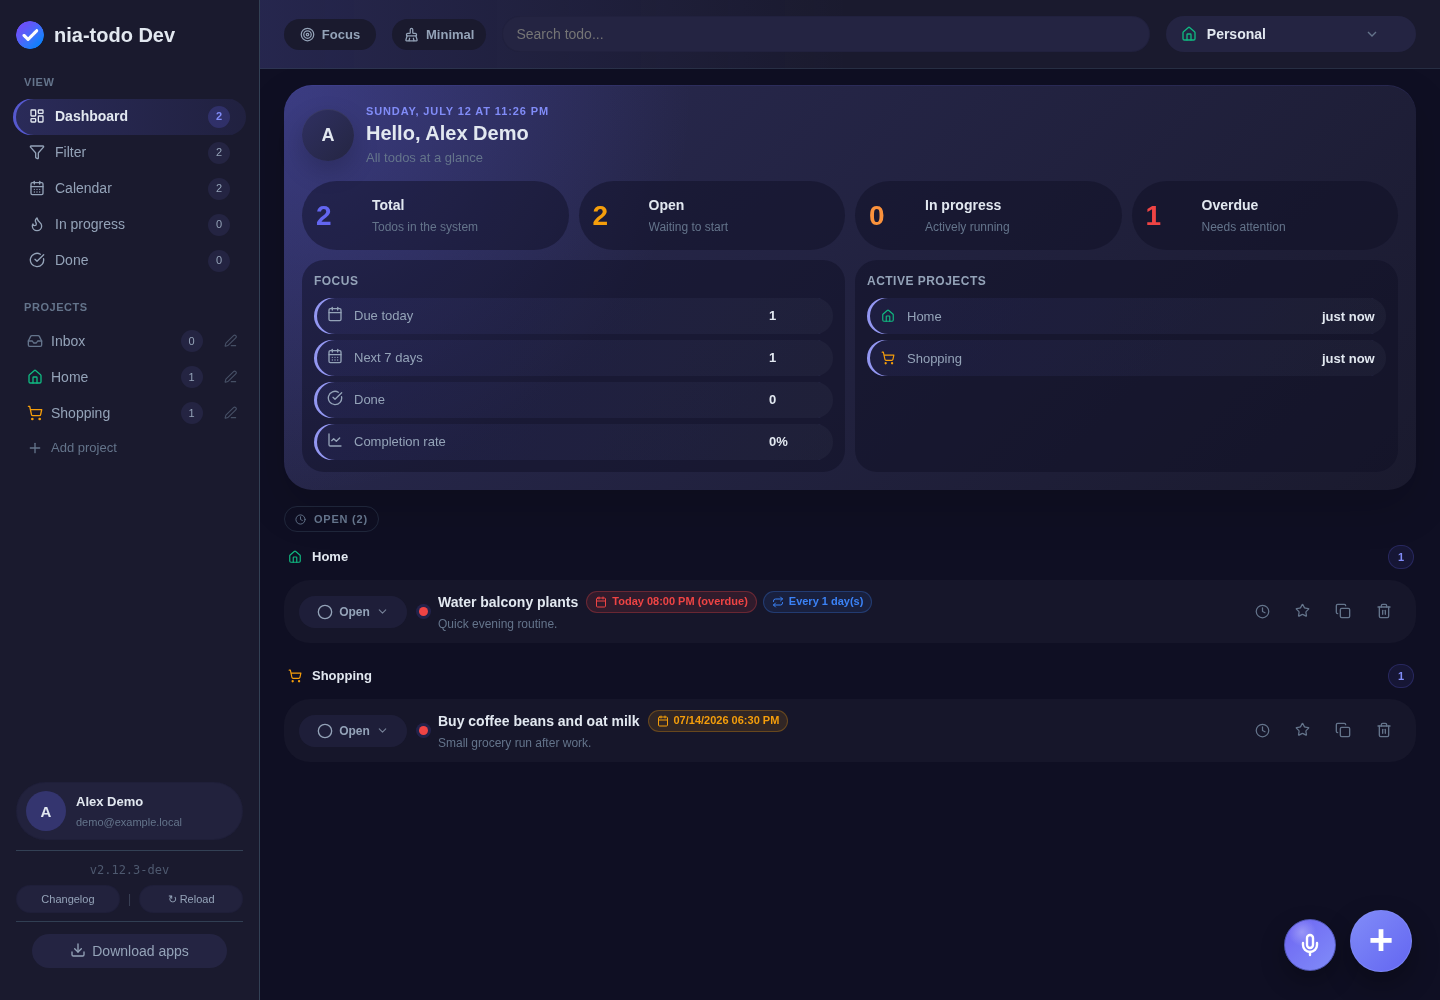
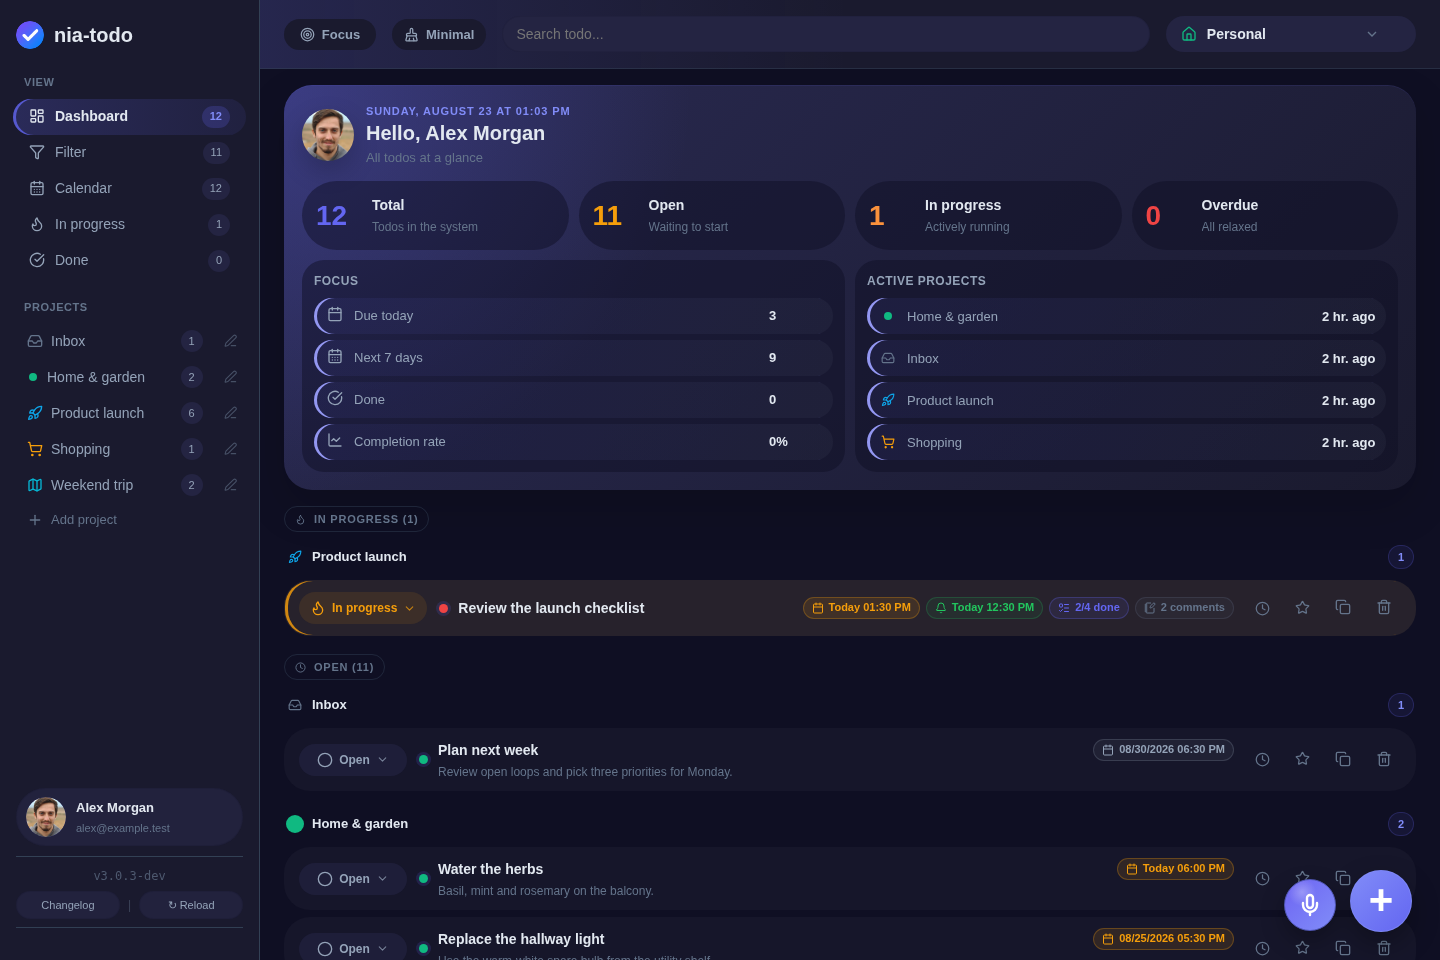
docs: refresh screenshots and trim README to link to website docs
Update the four hero screenshots to the current dashboard layout
(matches the website's overview slide). Replace the duplicated
install/update/docker/backup instructions with links to
nia-todo.homelabdiary.dev/docs, which now owns that content, so the
two copies stop drifting out of sync. Developer docs stay in-repo.

diff --git a/README.md b/README.md
@@ -6,6 +6,8 @@ Self-hosted todo system — SQLite + FastAPI + Web UI + offline PWA + native Win
 
 nia-todo is designed for private self-hosting: install the server, open the web app, then download the bundled native apps directly from your own instance.
 
+🌐 **[nia-todo.homelabdiary.dev](https://nia-todo.homelabdiary.dev)** — website, screenshots, and full documentation.
+
 ## 📸 Screenshots
 
 <p align="center">
@@ -119,185 +121,35 @@ Bundled native client filenames use the shared release version:
 - `nia-todo-vX.Y.Z-android-arm64.apk`
 - `nia-todo-desktop-vX.Y.Z-debian-amd64.deb`
 
-## 🚀 Debian/Ubuntu installation
+## 🚀 Getting started
 
-Download the full server bundle from the release page, then install it:
+Full installation, configuration, and operations instructions live on the website — this keeps one authoritative copy instead of duplicating steps that drift out of sync:
+
+- **[Docker](https://nia-todo.homelabdiary.dev/docs/install/docker)** — recommended for most self-hosters and container platforms
+- **[Debian/Ubuntu package](https://nia-todo.homelabdiary.dev/docs/install/debian)** — systemd service, backup timer, in-app updates
+- **[Get started](https://nia-todo.homelabdiary.dev/docs/get-started)** — compare both options and finish initial setup
+- **[HTTPS / reverse proxy](https://nia-todo.homelabdiary.dev/docs/configure/reverse-proxy)**, **[Administration](https://nia-todo.homelabdiary.dev/docs/configure/administration)**, **[Security, 2FA & OIDC](https://nia-todo.homelabdiary.dev/docs/configure/security)**
+- **[Backup & restore](https://nia-todo.homelabdiary.dev/docs/operations/backups)**, **[Updates](https://nia-todo.homelabdiary.dev/docs/operations/updates)**, **[Troubleshooting](https://nia-todo.homelabdiary.dev/docs/troubleshooting)**
+
+Quick start for the impatient:
 
 ```bash
+# Docker
+docker run -d --name nia-todo --restart unless-stopped \
+  -p 8753:8753 -e NIA_TODO_HOST=auto -e NIA_TODO_PORT=8753 \
+  -v nia-todo-data:/data docker.io/weedpump/nia-todo:latest
+
+# Debian/Ubuntu
 sudo apt install ./nia-todo-server-vX.Y.Z-full.deb
 ```
 
-The package enables and starts the server automatically. Check it with:
-
-```bash
-sudo systemctl status nia-todo
-sudo journalctl -u nia-todo -f
-```
-
-Then open the setup page in your browser and create the initial admin account:
-
-```text
-http://YOUR-SERVER:8753/setup
-```
-
-After setup, open the app at:
-
-```text
-http://YOUR-SERVER:8753/
-```
-
-The admin panel is available at:
-
-```text
-http://YOUR-SERVER:8753/admin
-```
-
-Native app downloads are served by your own instance under:
-
-```text
-http://YOUR-SERVER:8753/downloads/
-```
-
-For production use, put nia-todo behind HTTPS/reverse proxy and set the public base URL in the admin panel. Passkeys and native app integrations rely on the public URL being correct. Native passkeys are supported on Windows and Android; Debian desktop passkey support is intentionally deferred.
-
-## 🔄 Updates
-
-Debian/systemd installations can be updated from the admin panel when a newer GitHub release is available.
-The server downloads the `.deb`, verifies the published SHA256 checksum, creates a pre-upgrade SQLite backup, installs the package through a restricted root helper, and restarts the service.
-
-Manual update still works:
-
-```bash
-sudo apt install ./nia-todo-server-vX.Y.Z-full.deb
-```
-
-The package keeps existing runtime data and creates a pre-upgrade SQLite backup when a database exists.
-It also installs a daily systemd backup timer by default.
-
-Recommended before major upgrades:
-
-```bash
-sudo systemctl stop nia-todo
-sudo cp -a /var/lib/nia-todo /var/lib/nia-todo.backup.$(date +%Y%m%d-%H%M%S)
-sudo apt install ./nia-todo-server-vX.Y.Z-full.deb
-```
-
-## 🐳 Docker
-
-Docker images are published to Docker Hub (`docker.io/weedpump/nia-todo`) and mirrored to GHCR (`ghcr.io/weedpump/nia-todo`). Docker installations are not self-updated from inside the nia-todo container. The admin panel can show that a newer release exists, but you update Docker by pulling the newest image and recreating the container/stack:
-
-```bash
-docker compose pull && docker compose up -d
-```
-
-Run the published image directly:
-
-```bash
-docker run -d \
-  --name nia-todo \
-  --restart unless-stopped \
-  -p 8753:8753 \
-  -e NIA_TODO_HOST=auto \
-  -e NIA_TODO_PORT=8753 \
-  -e NIA_TODO_DATA_DIR=/data \
-  -e NIA_TODO_DB=nia-todo.db \
-  -v nia-todo-data:/data \
-  docker.io/weedpump/nia-todo:latest
-```
-
-Or create a local `compose.yml` without cloning the source repository:
-
-```yaml
-services:
-  nia-todo:
-    image: docker.io/weedpump/nia-todo:latest
-    ports:
-      - "8753:8753"
-    environment:
-      NIA_TODO_HOST: auto
-      NIA_TODO_PORT: 8753
-      NIA_TODO_DATA_DIR: /data
-      NIA_TODO_DB: nia-todo.db
-    volumes:
-      - nia-todo-data:/data
-
-volumes:
-  nia-todo-data:
-```
-
-Then start it:
-
-```bash
-docker compose up -d
-```
-
-GHCR is also available as a mirror if you prefer GitHub Container Registry:
-
-```text
-ghcr.io/weedpump/nia-todo:latest
-```
-
-Default container data volume:
-
-```text
-/data
-```
-
-This volume contains the SQLite database, generated keys, avatars, backups, todo attachments (`/data/attachments`), and local runtime data. Keep it persistent.
-
-## 🧱 Default package layout
-
-- App: `/opt/nia-todo`
-- Data: `/var/lib/nia-todo`
-- Config: `/etc/nia-todo/nia-todo.env`
-- Service: `nia-todo.service`
-
-Useful commands:
-
-```bash
-sudo systemctl status nia-todo
-sudo systemctl status nia-todo-backup.timer
-sudo systemctl start nia-todo-backup.service
-sudo systemctl restart nia-todo
-sudo journalctl -u nia-todo -f
-```
-
-## ⚙ Setup / operations
-
-- Initial setup: `/setup`
-- Admin panel: `/admin`
-- Native app downloads: `/downloads/`
-- Runtime data: `/var/lib/nia-todo`
-- Configuration: `/etc/nia-todo/nia-todo.env`
-
-For production use, configure a correct HTTPS `public_base_url` in the admin panel. Passkeys and native app integrations rely on it. Android passkeys use the bundled app signature through `/.well-known/assetlinks.json`; Debian desktop passkey support is intentionally deferred.
-
-## 🔑 Reset the admin password
-
-If you lose the admin password, reset it directly on the server. The tool reads the configured database location automatically.
-
-Debian/systemd installation:
-
-```bash
-sudo nia-todo-admin-password-reset
-sudo systemctl restart nia-todo
-```
-
-Docker Compose installation:
-
-```bash
-docker compose exec nia-todo nia-todo-admin-password-reset
-```
-
-Plain Docker installation:
-
-```bash
-docker exec -it nia-todo nia-todo-admin-password-reset
-```
-
-The password must follow the normal admin password rules. Existing admin sessions are invalidated after the reset.
+Then open `http://YOUR-SERVER:8753/setup` to create the initial admin account. For production use, put nia-todo behind HTTPS and set the public base URL in the admin panel — passkeys and native app integrations rely on it.
 
 ## 📚 Documentation
+
+**User documentation** (install, configure, operate, native apps) lives on the [website](https://nia-todo.homelabdiary.dev/docs) — see "Getting started" above.
+
+**Developer documentation** stays close to the source:
 
 - [API documentation](docs/api.md)
 - [Architecture](docs/architecture.md)
@@ -309,39 +161,6 @@ The password must follow the normal admin password rules. Existing admin session
 ## 🧪 Development / source builds
 
 For normal self-hosting, use the release package or Docker image above. To build from source or contribute, see [CONTRIBUTING.md](CONTRIBUTING.md).
-
-## 🗄 Backup
-
-The Debian package installs an automatic daily backup timer by default:
-
-```bash
-sudo systemctl status nia-todo-backup.timer
-sudo systemctl start nia-todo-backup.service
-```
-
-Manual backup:
-
-```bash
-sudo nia-todo-backup
-```
-
-Manual restore:
-
-```bash
-sudo systemctl stop nia-todo
-sudo nia-todo-restore /var/lib/nia-todo/backups/nia-todo-YYYYMMDD-HHMMSS.zip
-sudo systemctl start nia-todo
-```
-
-For migrating an existing install, the simplest path is:
-
-1. Create a backup on the old install.
-2. Install the new package or start the new Docker deployment.
-3. Restore the backup into the new data directory.
-
-Runtime data lives in `/var/lib/nia-todo`. It contains the SQLite database, generated keys, avatars, todo attachments, backups, and local runtime data.
-
-Keep custom runtime paths such as `NIA_TODO_AVATAR_DIR`, `NIA_TODO_ATTACHMENT_DIR`, and `NIA_TODO_VAPID_KEYS` inside `NIA_TODO_DATA_DIR`; the packaged backup helper snapshots `NIA_TODO_DATA_DIR` plus a consistent SQLite backup and intentionally excludes the backup directory itself.
 
 ## 📄 License
 
